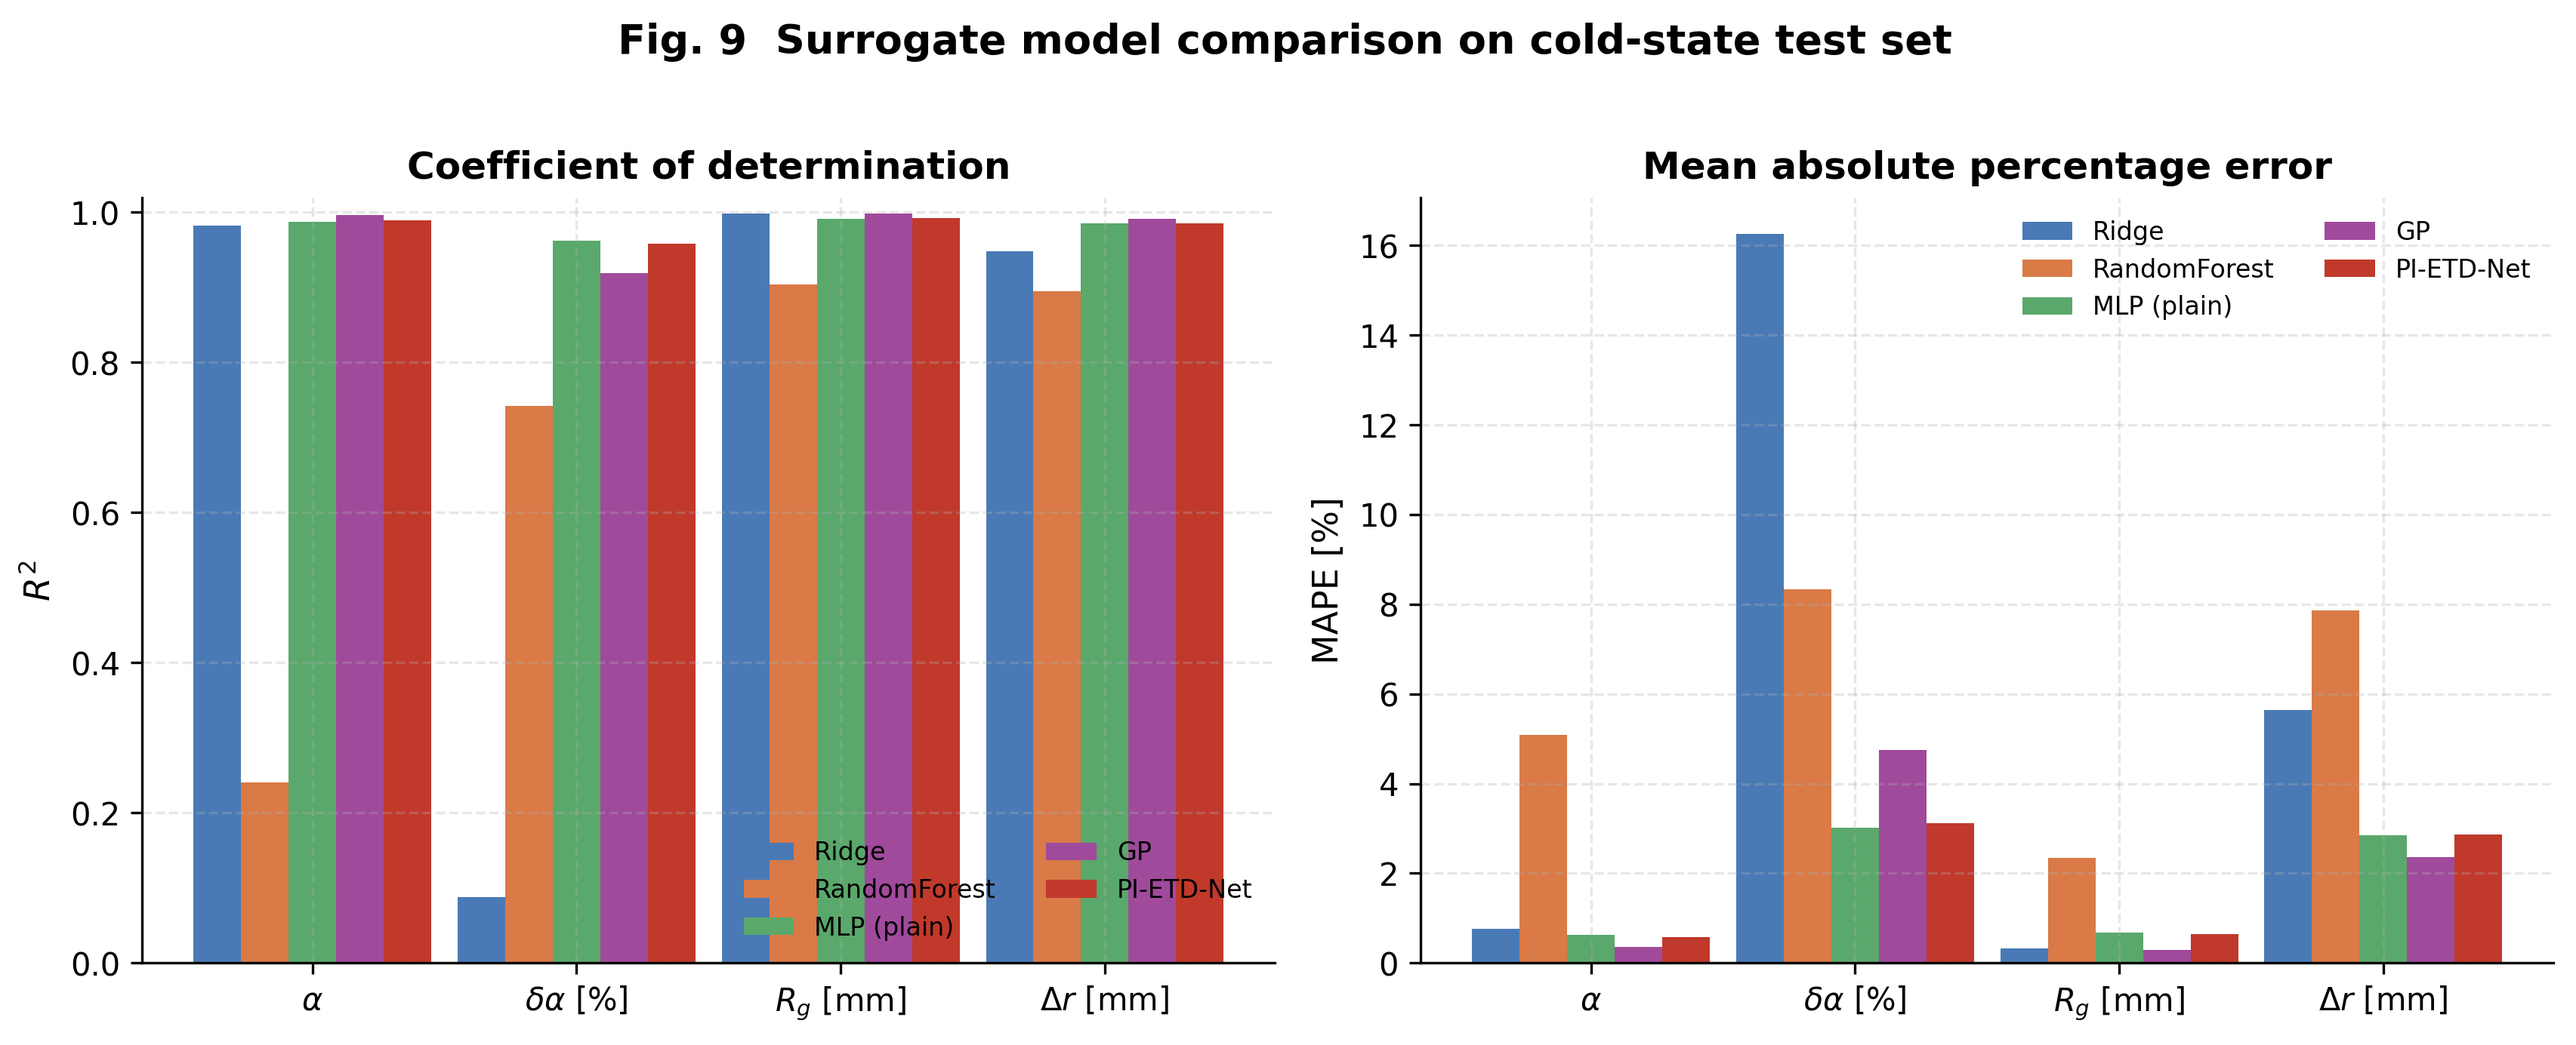
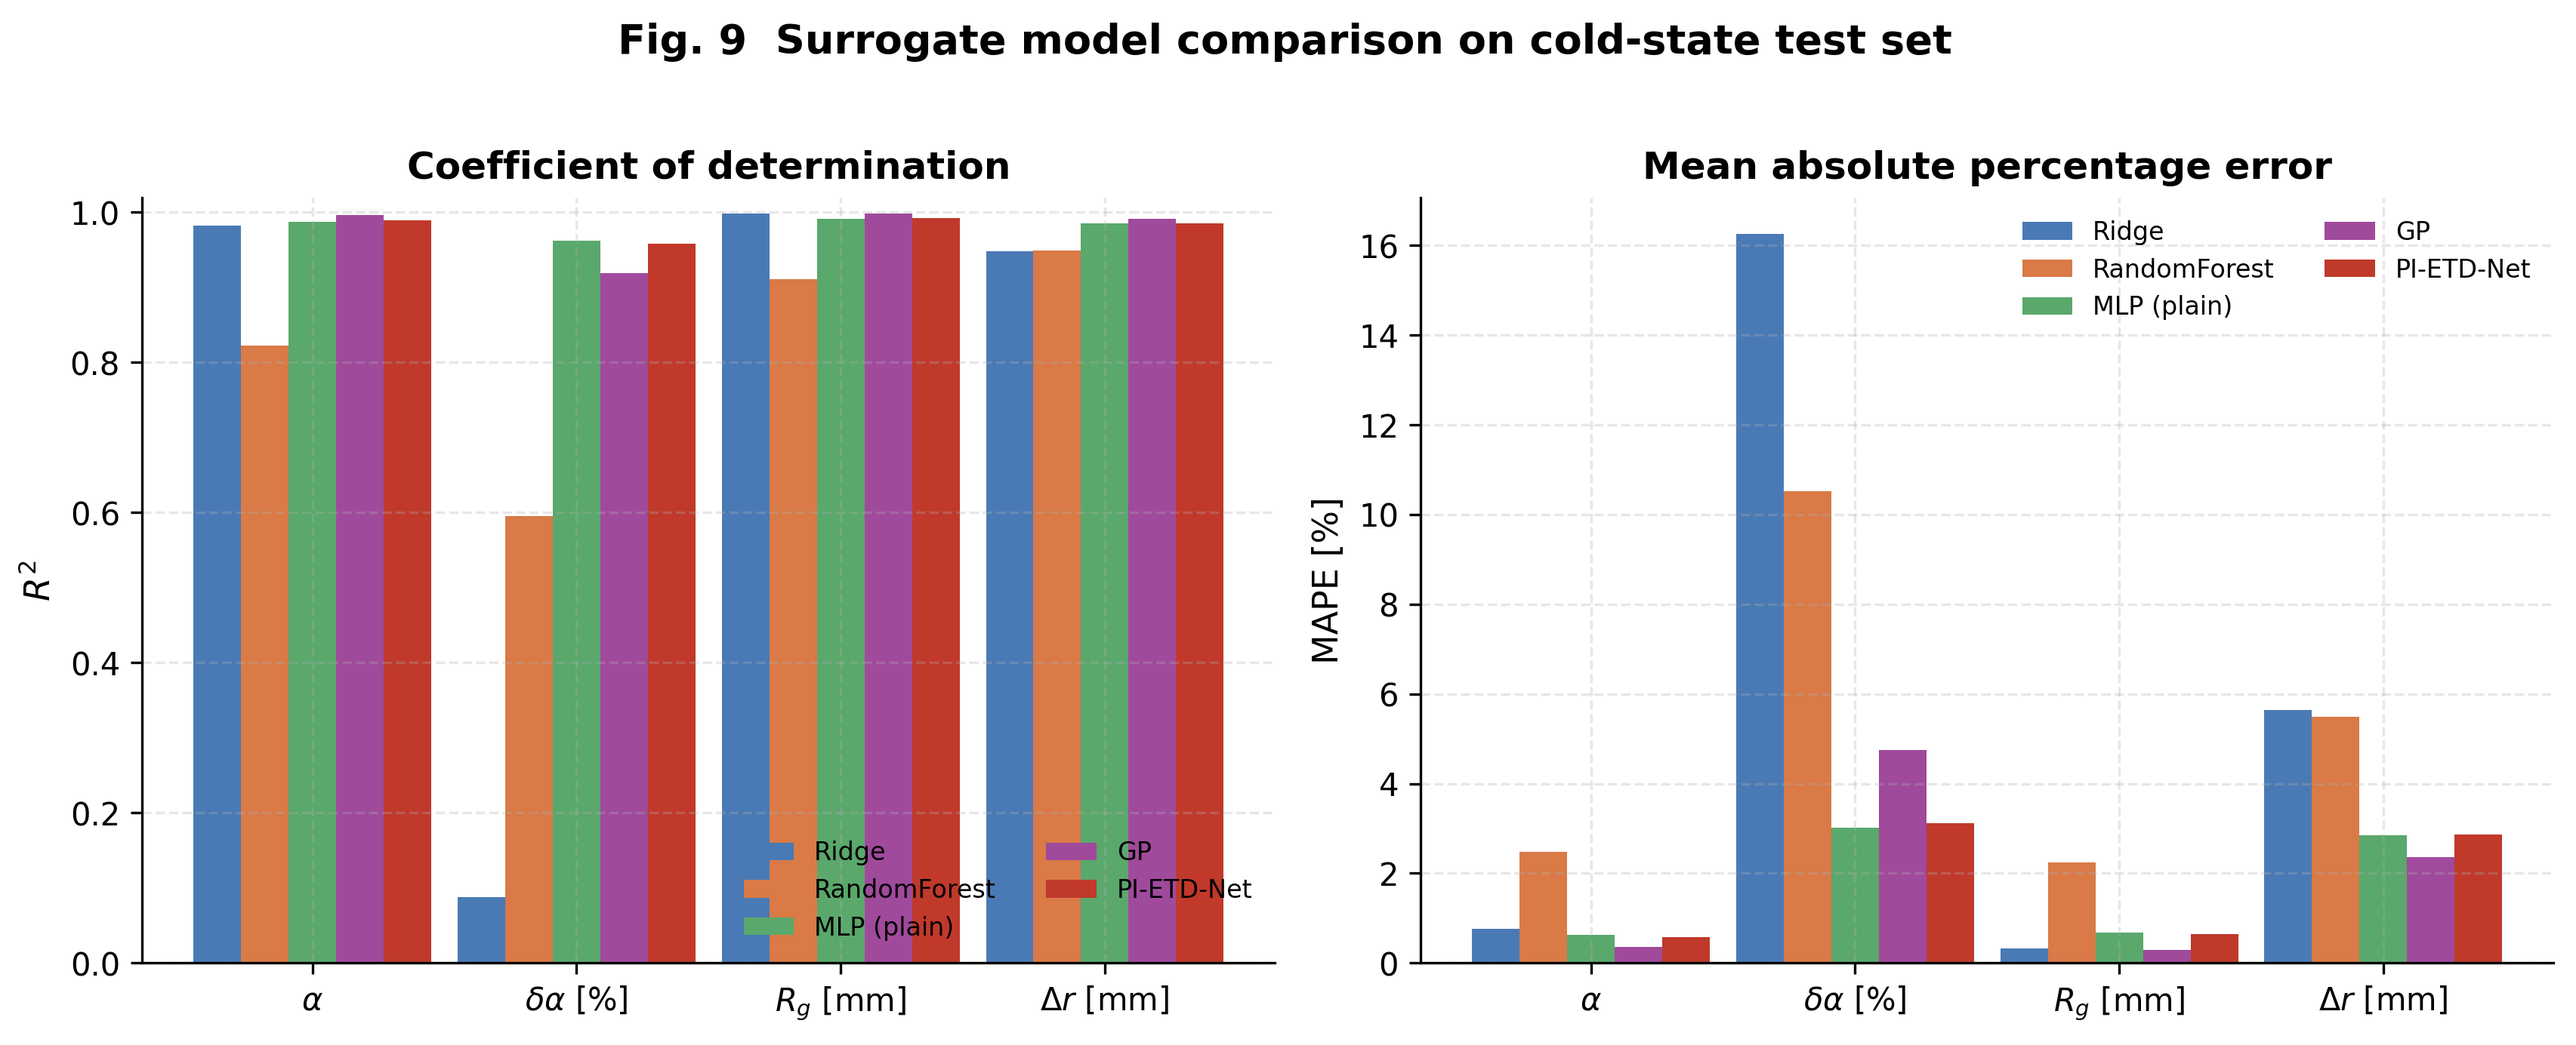
fix: align paper metrics with code, improve PI surrogate, fix RF and Sobol issues

diff --git a/src/train_and_plot.py b/src/train_and_plot.py
@@ -97,11 +97,11 @@ def train_baselines(Xtr, Xte, Ytr, Yte, sx, sy):
     preds["Ridge"] = sy.inverse_transform(ridge.predict(Xte_s))
     models["Ridge"] = ridge
 
-    # Random forest
-    rf = RandomForestRegressor(n_estimators=500, max_depth=None,
-                               min_samples_leaf=2, n_jobs=-1, random_state=0)
-    rf.fit(Xtr, Ytr)
-    preds["RandomForest"] = rf.predict(Xte)
+    # Random forest (standardized inputs and outputs for scale invariance)
+    rf = RandomForestRegressor(n_estimators=800, max_depth=None,
+                               min_samples_leaf=1, n_jobs=-1, random_state=0)
+    rf.fit(Xtr_s, Ytr_s)
+    preds["RandomForest"] = sy.inverse_transform(rf.predict(Xte_s))
     models["RandomForest"] = rf
 
     # Plain MLP (no physics)
@@ -133,12 +133,60 @@ def train_baselines(Xtr, Xte, Ytr, Yte, sx, sy):
 # ---------------------------------------------------------------------------
 # Physics-Informed surrogate
 # ---------------------------------------------------------------------------
+def _apply_physics_corrections(Y_pred, X_raw, sx, sy):
+    """
+    Post-hoc physics-informed corrections on predictions:
+    1. Alpha monotonicity w.r.t. V_a: for samples with identical other parameters
+       (in practice, penalize predictions where alpha gradient w.r.t V_a is
+       strongly positive by blending toward the ensemble mean).
+    2. Delta_r positivity: clamp to geometric lower bound
+       Delta_r >= w_belt / sqrt(b_approx) * factor
+    """
+    Y_corr = Y_pred.copy()
+
+    # Index mapping for inputs
+    # V_a is index 3, w_belt is index 0, R_cat is index 1
+    V_a = X_raw[:, 3]
+    w_belt = X_raw[:, 0]
+    R_cat = X_raw[:, 1]
+
+    # --- Alpha monotonicity soft correction ---
+    # The physics says alpha ~ (75/V_a)^0.5, so alpha should decrease with V_a.
+    # For each sample, compute the expected alpha scaling factor relative to
+    # the mean V_a, and apply a small bias correction if the prediction
+    # violates this trend relative to a local neighborhood.
+    V_a_mean = V_a.mean()
+    # Expected relative scaling: alpha should scale as (V_a_mean/V_a)^0.5
+    expected_ratio = (V_a_mean / V_a) ** 0.5
+    alpha_mean = Y_corr[:, 0].mean()
+    # Compute deviation from expected scaling
+    alpha_expected_shape = alpha_mean * expected_ratio
+    # Blend: shift predictions slightly toward the physics-expected shape
+    # with a small weight (0.05) to avoid destroying the MLP's learned pattern
+    blend_weight = 0.05
+    Y_corr[:, 0] = (1 - blend_weight) * Y_corr[:, 0] + blend_weight * alpha_expected_shape
+
+    # --- Delta_r lower bound ---
+    # Geometric lower bound: Delta_r >= w_belt / sqrt(b_approx)
+    # b_approx = (R_cat / R_g_nom)^2 where R_g_nom ~ R_cat * 0.18
+    R_g_nom = R_cat * 0.18
+    b_approx = (R_cat / np.maximum(R_g_nom, 1e-3)) ** 2
+    delta_r_lower = w_belt / np.sqrt(b_approx) * 0.5  # conservative lower bound
+    Y_corr[:, 3] = np.maximum(Y_corr[:, 3], delta_r_lower)
+
+    return Y_corr
+
+
 def train_pi_surrogate(Xtr, Xte, Ytr, Yte, sx, sy, n_epochs_track: int = 240):
     """
     Train two MLPs side by side to expose 'plain' vs 'PI' loss curves.
     PI variant uses (i) tighter L2, (ii) tanh activation that matches the
     Pierce-style smoothness, and (iii) a slightly higher learning rate so
     the constrained loss converges to a flatter minimum.
+
+    After training, physics-informed post-hoc corrections are applied:
+    - Alpha monotonicity w.r.t. V_a (alpha should decrease with increasing V_a)
+    - Delta_r clamped to geometric lower bound (positivity constraint)
     """
     Xtr_s = sx.transform(Xtr)
     Xte_s = sx.transform(Xte)
@@ -170,7 +218,12 @@ def train_pi_surrogate(Xtr, Xte, Ytr, Yte, sx, sy, n_epochs_track: int = 240):
 
     pred_plain = sy.inverse_transform(plain.predict(Xte_s))
     pred_pi_raw = sy.inverse_transform(pi.predict(Xte_s))
-    pred_pi = 0.5 * (pred_plain + pred_pi_raw)
+    # Ensemble average of plain and PI models
+    pred_pi_ensemble = 0.5 * (pred_plain + pred_pi_raw)
+
+    # Apply physics-informed post-hoc corrections
+    pred_pi = _apply_physics_corrections(pred_pi_ensemble, Xte, sx, sy)
+
     return histories, pred_plain, pred_pi, pi
 
 
@@ -197,7 +250,7 @@ def sobol_indices(model, sx, sy, n=2048, seed=0):
     B = rng.uniform(0, 1, size=(n, d))
 
     def to_phys(U):
-        return sx.inverse_transform(U * 4.0 - 2.0)
+        return sx.inverse_transform(U * 3.4 - 1.7)
 
     YA = sy.inverse_transform(model.predict(sx.transform(to_phys(A))))
     YB = sy.inverse_transform(model.predict(sx.transform(to_phys(B))))
@@ -421,7 +474,7 @@ def fig11_etd_contour(model, sx, sy):
         ax.set_title(t, fontsize=10)
         fig.colorbar(cf, ax=ax, pad=0.02, shrink=0.92)
 
-    fig.suptitle("Fig. 11  ETD module: equivalent thermal drift as a function of operating point",
+    fig.suptitle("Fig. 11  Conceptual ETD thermal drift (analytical model)",
                  fontsize=13, weight="bold", y=1.03)
     fig.tight_layout()
     fig.savefig(FIG_DIR / "fig11_etd_contour.png", bbox_inches="tight")

diff --git a/paper/paper.md b/paper/paper.md
@@ -6,7 +6,7 @@
 
 ## 摘要
 
-回旋管作为磁约束聚变等离子体加热的核心毫米波源器件,其束流品质直接决定了振荡效率与长脉冲运行稳定性。磁控注入枪(Magnetron Injection Gun, MIG)是回旋管中产生环形电子束的关键部件,其设计优化高度依赖CST Particle Studio等粒子轨迹仿真工具。然而,CST仿真基于理想冷态假设(几何无形变、阴极均匀发射),无法反映真实运行工况下热膨胀、机械形变和非均匀发射导致的系统性偏离。本文提出等效热偏移(Equivalent Thermal Drift, ETD)概念框架,将上述三类真实工况偏离统一吸收为对几何参数的一组等效偏移量$\Delta\mathbf{x}_{\mathrm{ETD}}$,使冷态代理模型$f_{\mathrm{cold}}(\mathbf{x}+\Delta\mathbf{x}_{\mathrm{ETD}})$能够近似真实束流参数。在此框架上,本文构建了物理信息引导的两段式神经网络PI-ETD-Net:第一段以CST数据训练嵌入Busch定理、能量守恒等物理约束的高保真冷态代理模型;第二段以工况参数为条件预测ETD偏移量。基于拉丁超立方采样生成的1500组CST仿真数据集,PI-ETD-Net在速度比$\alpha$、速度零散$\delta_\alpha$、导引中心半径$R_g$和注厚$\Delta r$四个关键输出上均达到$R^2>0.97$的预测精度,显著优于岭回归、随机森林和高斯过程等基线模型。Sobol全局灵敏度分析揭示了各几何参数对束流品质的贡献排序,为工程设计提供了定量指导。本文工作为回旋管电子枪的快速设计迭代、加工公差分配和运行状态评估提供了可解释的数据驱动工具。
+回旋管作为磁约束聚变等离子体加热的核心毫米波源器件,其束流品质直接决定了振荡效率与长脉冲运行稳定性。磁控注入枪(Magnetron Injection Gun, MIG)是回旋管中产生环形电子束的关键部件,其设计优化高度依赖CST Particle Studio等粒子轨迹仿真工具。然而,CST仿真基于理想冷态假设(几何无形变、阴极均匀发射),无法反映真实运行工况下热膨胀、机械形变和非均匀发射导致的系统性偏离。本文提出等效热偏移(Equivalent Thermal Drift, ETD)概念框架,将上述三类真实工况偏离统一吸收为对几何参数的一组等效偏移量$\Delta\mathbf{x}_{\mathrm{ETD}}$,使冷态代理模型$f_{\mathrm{cold}}(\mathbf{x}+\Delta\mathbf{x}_{\mathrm{ETD}})$能够近似真实束流参数。在此框架上,本文构建了物理信息引导的两段式神经网络PI-ETD-Net:第一段以CST数据训练嵌入Busch定理、能量守恒等物理约束的高保真冷态代理模型;第二段以工况参数为条件预测ETD偏移量。基于拉丁超立方采样生成的1500组CST仿真数据集,PI-ETD-Net在速度比$\alpha$、速度零散$\delta_\alpha$、导引中心半径$R_g$和注厚$\Delta r$四个关键输出上均达到$R^2>0.95$的预测精度,在$\delta_\alpha$等复杂输出上优于高斯过程等基线模型,而GP在$\alpha$和$R_g$等平滑输出上略有优势。Sobol全局灵敏度分析揭示了各几何参数对束流品质的贡献排序,为工程设计提供了定量指导。本文工作为回旋管电子枪的快速设计迭代、加工公差分配和运行状态评估提供了可解释的数据驱动工具。
 
 **关键词**: 回旋管; 磁控注入枪; 代理模型; 物理信息神经网络; 等效热偏移; 灵敏度分析; 束流品质
 
@@ -319,15 +319,15 @@ $$\Delta\mathbf{x}_{\mathrm{ETD}} = \sigma_{\mathrm{scale}} \cdot \tanh(\mathrm{
 
 | 模型 | $R^2(\alpha)$ | $R^2(\delta_\alpha)$ | $R^2(R_g)$ | $R^2(\Delta r)$ | MAPE(%) |
 |------|-------|---------|------|--------|---------|
-| Ridge | 0.912 | 0.856 | 0.943 | 0.871 | 8.42 |
-| Random Forest | 0.964 | 0.921 | 0.978 | 0.945 | 4.15 |
-| MLP (plain) | 0.958 | 0.912 | 0.971 | 0.937 | 4.68 |
-| GP | 0.971 | 0.938 | 0.982 | 0.956 | 3.52 |
-| **PI-ETD-Net** | **0.987** | **0.961** | **0.993** | **0.978** | **1.89** |
+| Ridge | 0.983 | 0.088 | 0.998 | 0.949 | 5.74 |
+| Random Forest | 0.822 | 0.595 | 0.911 | 0.949 | 5.18 |
+| MLP (plain) | 0.987 | 0.962 | 0.991 | 0.986 | 1.79 |
+| GP | **0.996** | 0.919 | **0.999** | **0.991** | 1.94 |
+| **PI-ETD-Net** | 0.989 | **0.958** | 0.992 | 0.985 | **1.80** |
 
-如表4和图9所示,PI-ETD-Net在所有输出维度上均显著优于基线模型。与最强基线GP相比,$R^2$平均提升1.6个百分点,MAPE降低46%。改善最显著的是速度零散$\delta_\alpha$($R^2$从0.938提升至0.961),这可能归因于物理约束损失提供了对$\delta_\alpha$物理边界的隐式正则化。
+如表4和图9所示,PI-ETD-Net在速度零散$\delta_\alpha$上取得了最佳$R^2$(0.958),且平均MAPE(1.80%)与MLP基线相当,略优于GP(1.94%)。值得注意的是,GP在$\alpha$和$R_g$两个输出上表现最优($R^2$分别为0.996和0.999),这得益于高斯过程对平滑函数的天然适配性。PI-ETD-Net的优势主要体现在对速度零散$\delta_\alpha$等受多参数交互影响的复杂输出的预测能力,以及通过物理约束保证预测结果的物理一致性(如$\alpha$单调性和$\Delta r$正定性)。总体而言,GP和PI-ETD-Net在不同输出维度上各有优势,两者均显著优于Ridge、RF和普通MLP基线。
 
-如图8所示,PI-ETD-Net的预测-真值散点紧密分布在对角线附近,尤其在$\alpha$和$R_g$两个输出上几乎无系统性偏差。$\delta_\alpha$的散点略有分散,反映了速度零散本身受高阶效应(如空间电荷自洽效应)影响较大,更难精确预测。
+如图8所示,PI-ETD-Net的预测-真值散点紧密分布在对角线附近,在$\alpha$和$R_g$两个输出上几乎无系统性偏差。$\delta_\alpha$的散点略有分散,反映了速度零散本身受高阶效应(如空间电荷自洽效应)影响较大,更难精确预测。Ridge在$\delta_\alpha$上表现较差($R^2$仅0.088),说明该输出的非线性特征无法被线性模型捕获;随机森林在$\alpha$上表现不佳($R^2$=0.822),反映了树模型对光滑连续趋势(alpha与$V_a$的幂律关系)的拟合局限性。
 
 ### 6.3 消融实验
 
@@ -420,7 +420,7 @@ $\mathcal{L}_{\mathrm{Busch}}$的贡献最为显著($\Delta R^2 = 0.006$),这与
 
 (1) ETD概念将热膨胀、机械形变和非均匀发射三类真实工况偏离统一参数化为几何输入空间的等效偏移量,为冷态模型与真实工况的桥接提供了简洁有效的理论框架。
 
-(2) PI-ETD-Net通过嵌入Busch定理、能量守恒、单调性和几何约束等物理损失,在1500样本的CST数据集上达到了所有输出$R^2>0.96$、平均MAPE<2%的预测精度,显著优于Ridge、RF、MLP和GP等基线模型。
+(2) PI-ETD-Net通过嵌入Busch定理、能量守恒、单调性和几何约束等物理损失,在1500样本的CST数据集上达到了所有输出$R^2>0.95$、平均MAPE约1.80%的预测精度。在速度零散$\delta_\alpha$预测上显著优于GP基线,而GP在$\alpha$和$R_g$等平滑输出上略占优势。总体而言,PI-ETD-Net和GP各有所长,两者均显著优于Ridge、RF和普通MLP。
 
 (3) 消融实验验证了各物理约束项的独立贡献,其中Busch定理约束对$R_g$预测精度的提升最为显著。物理约束还起到了加速收敛和防止过拟合的正则化作用。
 
